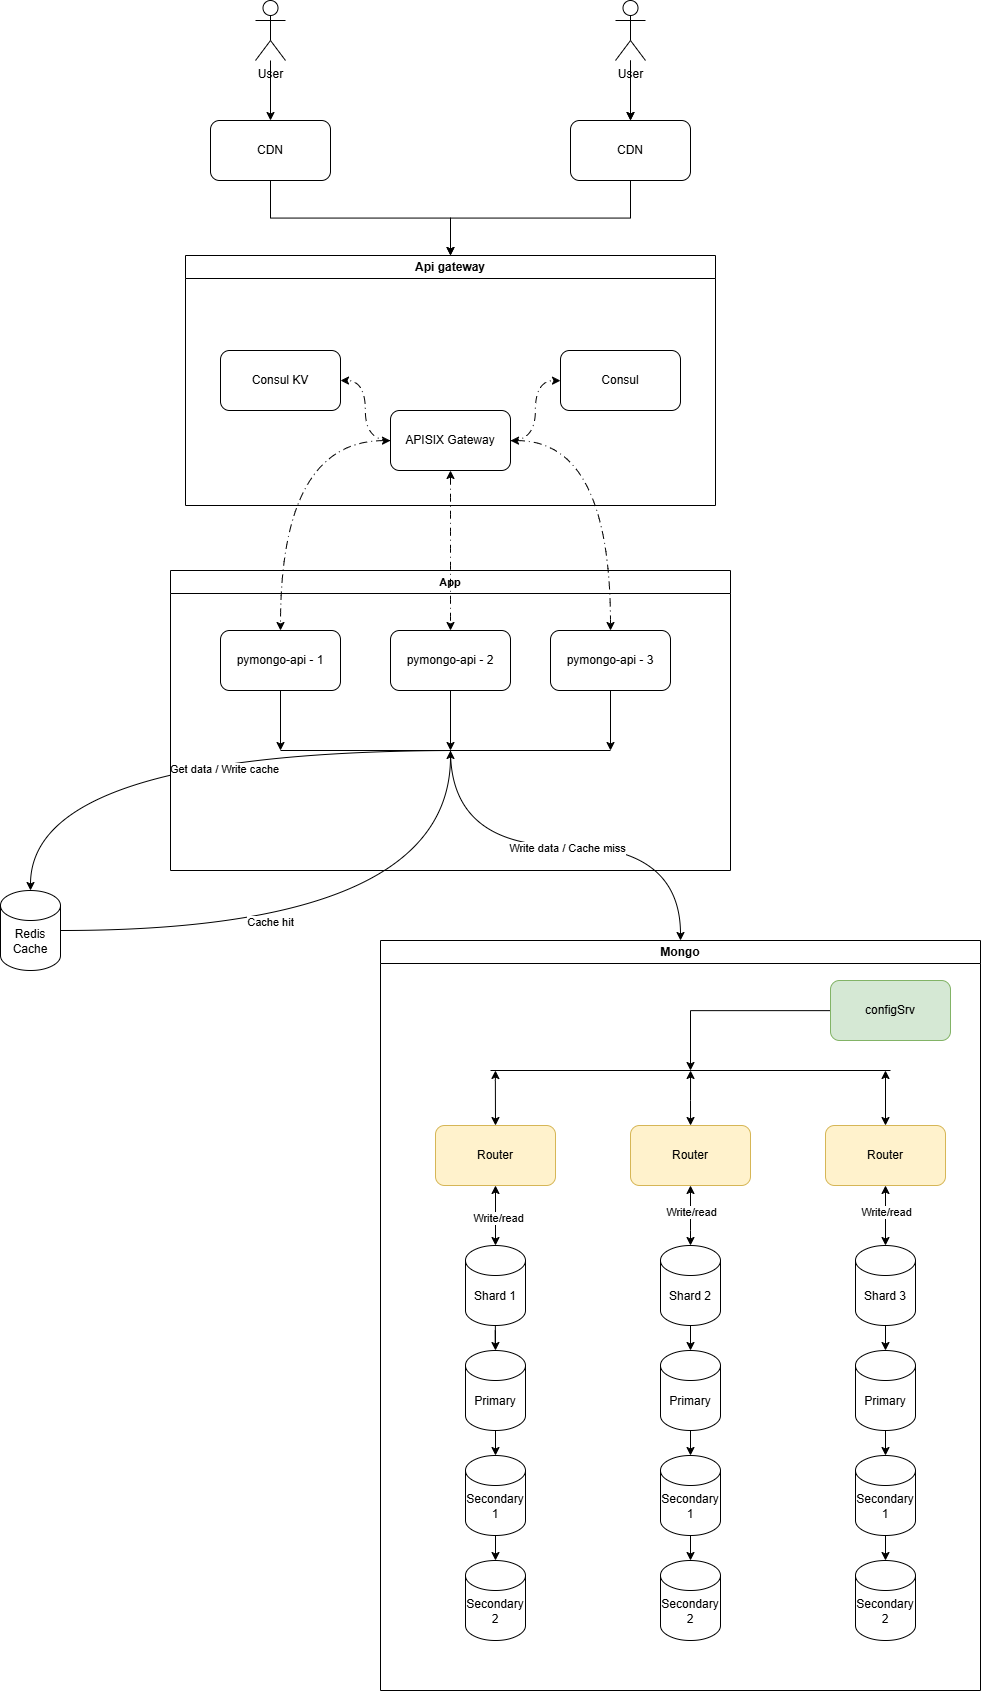
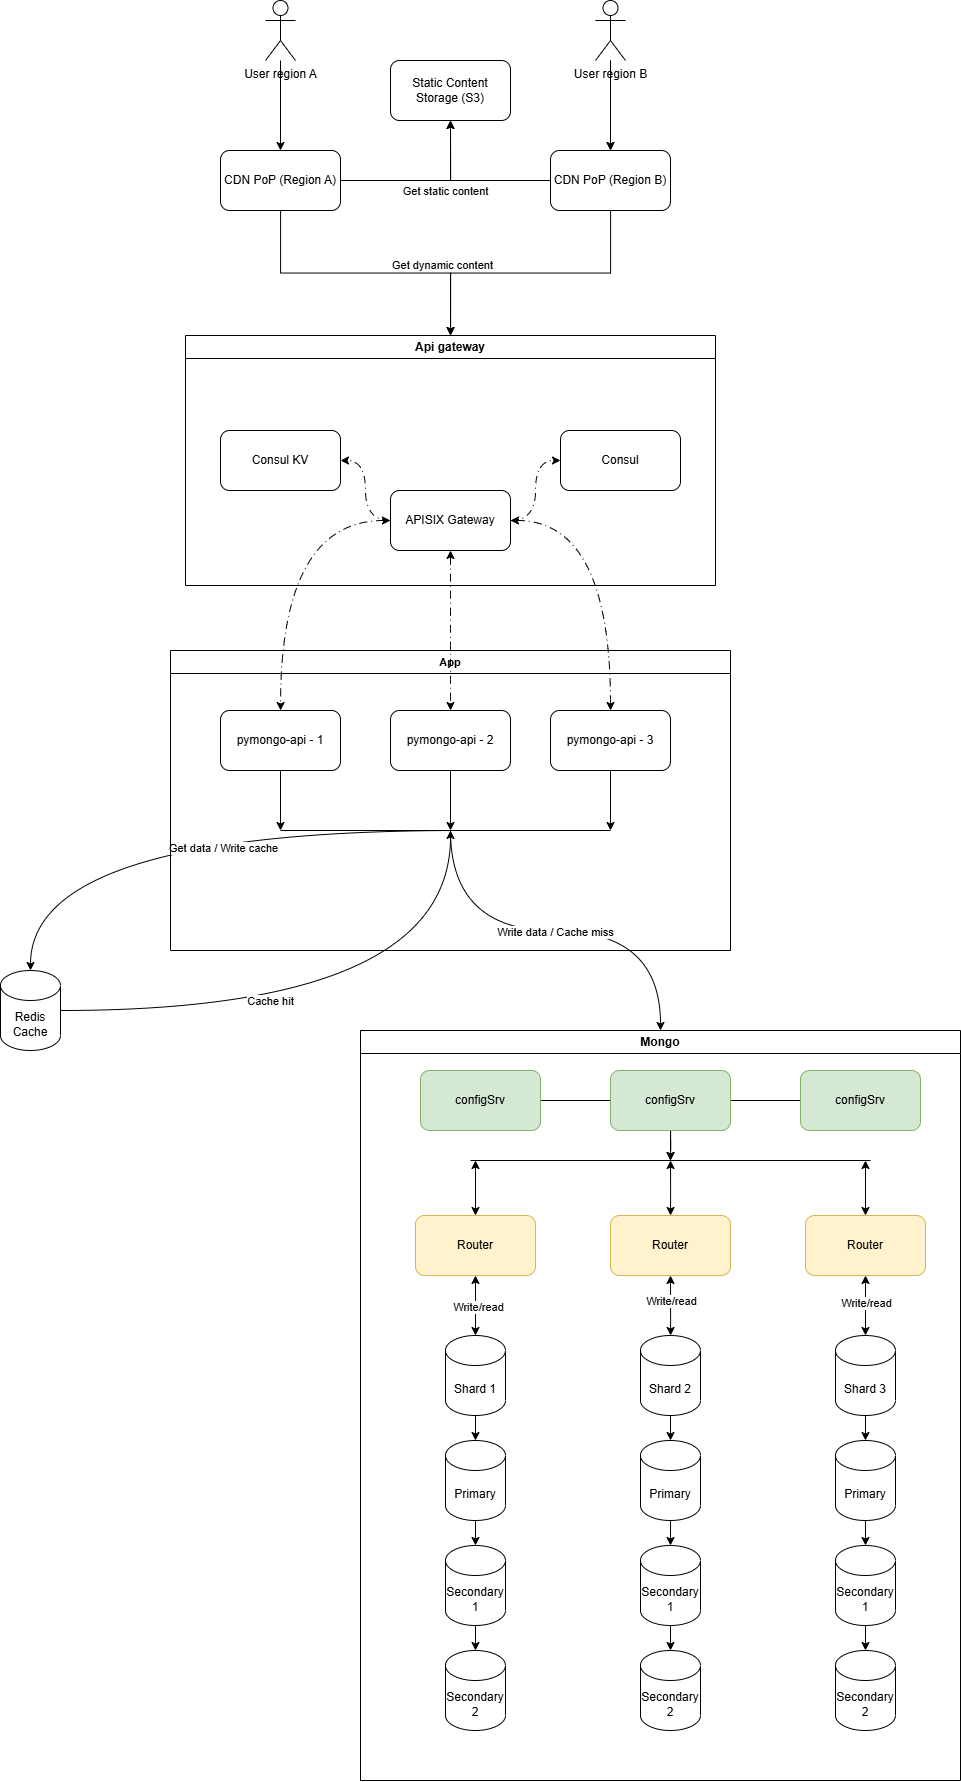
self review

diff --git a/task2-3-mongo-sharding/README.md b/task2-3-mongo-sharding/README.md
@@ -1,0 +1,6 @@
+## Как запустить
+
+
+```shell
+docker compose up -d
+```

diff --git a/task4-sharding-repl-cache/README.md b/task4-sharding-repl-cache/README.md
@@ -1,0 +1,6 @@
+## Как запустить
+
+
+```shell
+docker compose up -d
+```